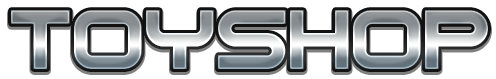
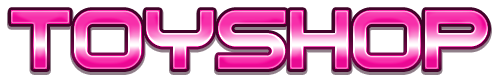
new primary color and brand color

diff --git a/app/routes/store/ProductCard.tsx b/app/routes/store/ProductCard.tsx
@@ -93,7 +93,7 @@ export default function ProductCard({ product }: Props) {
     const outOfStock = product.quantity <= 0;
 
     return (
-        <div className="mt-5 border-2 border-color-2">
+        <div className="mt-5 rounded-lg border-2 border-bgColor2 bg-gradient-to-br from-bgColor1 to-bgColor2 dark:bg-gradient-to-tl">
             <p>Title: {product.title}</p>
             <p>Rating: {product.average_rating}</p>
             {!user ? null : (
@@ -107,13 +107,68 @@ export default function ProductCard({ product }: Props) {
                             ? "In cart"
                             : outOfStock
                               ? "Out of stock"
-                              : "Add to cart"}
+                              : addToCartTextRender}
                     </button>
-                    <button className="btn" onClick={addToWishlist}>
-                        {isInWishlist ? "Wishlist-" : "Wishlist+"}
+                    <button
+                        className="text-primaryColor hover:text-primaryColorMuted"
+                        onClick={addToWishlist}
+                    >
+                        {isInWishlist ? filledHeartIcon : emptyHeartIcon}
                     </button>
                 </div>
             )}
         </div>
     );
 }
+
+const addToCartTextRender = (
+    <div className="flex flex-row">
+        <svg
+            xmlns="http://www.w3.org/2000/svg"
+            fill="none"
+            viewBox="0 0 24 24"
+            strokeWidth={1.5}
+            stroke="currentColor"
+            className="size-6"
+        >
+            <path
+                strokeLinecap="round"
+                strokeLinejoin="round"
+                d="M2.25 3h1.386c.51 0 .955.343 1.087.835l.383 1.437M7.5 14.25a3 3 0 0 0-3 3h15.75m-12.75-3h11.218c1.121-2.3 2.1-4.684 2.924-7.138a60.114 60.114 0 0 0-16.536-1.84M7.5 14.25 5.106 5.272M6 20.25a.75.75 0 1 1-1.5 0 .75.75 0 0 1 1.5 0Zm12.75 0a.75.75 0 1 1-1.5 0 .75.75 0 0 1 1.5 0Z"
+            />
+        </svg>
+        <span className="ms-1">Add to cart</span>
+    </div>
+);
+
+const emptyHeartIcon = (
+    <>
+        <svg
+            xmlns="http://www.w3.org/2000/svg"
+            fill="none"
+            viewBox="0 0 24 24"
+            strokeWidth={1.5}
+            stroke="currentColor"
+            className="size-10"
+        >
+            <path
+                strokeLinecap="round"
+                strokeLinejoin="round"
+                d="M21 8.25c0-2.485-2.099-4.5-4.688-4.5-1.935 0-3.597 1.126-4.312 2.733-.715-1.607-2.377-2.733-4.313-2.733C5.1 3.75 3 5.765 3 8.25c0 7.22 9 12 9 12s9-4.78 9-12Z"
+            />
+        </svg>
+    </>
+);
+
+const filledHeartIcon = (
+    <>
+        <svg
+            xmlns="http://www.w3.org/2000/svg"
+            viewBox="0 0 24 24"
+            fill="currentColor"
+            className="size-10"
+        >
+            <path d="m11.645 20.91-.007-.003-.022-.012a15.247 15.247 0 0 1-.383-.218 25.18 25.18 0 0 1-4.244-3.17C4.688 15.36 2.25 12.174 2.25 8.25 2.25 5.322 4.714 3 7.688 3A5.5 5.5 0 0 1 12 5.052 5.5 5.5 0 0 1 16.313 3c2.973 0 5.437 2.322 5.437 5.25 0 3.925-2.438 7.111-4.739 9.256a25.175 25.175 0 0 1-4.244 3.17 15.247 15.247 0 0 1-.383.219l-.022.012-.007.004-.003.001a.752.752 0 0 1-.704 0l-.003-.001Z" />
+        </svg>
+    </>
+);

diff --git a/app/routes/store/SortOptions.tsx b/app/routes/store/SortOptions.tsx
@@ -20,19 +20,20 @@ export default function SortOptions({
             // selected sort type render
             return (
                 <button
-                    className="btn"
+                    className="text-primaryTextColor flex items-center bg-primaryColor px-4 py-1 hover:bg-primaryColorMuted"
                     onClick={() => {
                         setSortDescending(!sortDescending);
                         setFetchTrigger({ fetchMode: "NEW" });
                     }}
                 >
-                    {displayText + (sortDescending ? "(D)" : "(A)")}
+                    <div>{sortDescending ? downArrow : upArrow}</div>
+                    <span>{displayText}</span>
                 </button>
             );
         } else {
             return (
                 <button
-                    className="btn"
+                    className="hover:bg-bgColor3 bg-bgColor2 px-4 py-1"
                     onClick={() => {
                         setChosenSort(type);
                         setFetchTrigger({ fetchMode: "NEW" });
@@ -45,10 +46,46 @@ export default function SortOptions({
     }
 
     return (
-        <div className="flex">
-            {sortOptionButton("Title", "TITLE")}
-            {sortOptionButton("Price", "PRICE")}
-            {sortOptionButton("Rating", "RATING")}
+        <div className="flex justify-end pt-10 lg:pt-0">
+            <div className="text-md flex flex-wrap overflow-hidden rounded-md font-medium">
+                {sortOptionButton("Title", "TITLE")}
+                {sortOptionButton("Price", "PRICE")}
+                {sortOptionButton("Rating", "RATING")}
+            </div>
         </div>
     );
 }
+
+const downArrow = (
+    <>
+        <svg
+            xmlns="http://www.w3.org/2000/svg"
+            viewBox="0 0 20 20"
+            fill="currentColor"
+            className="size-5"
+        >
+            <path
+                fillRule="evenodd"
+                d="M10 3a.75.75 0 0 1 .75.75v10.638l3.96-4.158a.75.75 0 1 1 1.08 1.04l-5.25 5.5a.75.75 0 0 1-1.08 0l-5.25-5.5a.75.75 0 1 1 1.08-1.04l3.96 4.158V3.75A.75.75 0 0 1 10 3Z"
+                clipRule="evenodd"
+            />
+        </svg>
+    </>
+);
+
+const upArrow = (
+    <>
+        <svg
+            xmlns="http://www.w3.org/2000/svg"
+            viewBox="0 0 20 20"
+            fill="currentColor"
+            className="size-5"
+        >
+            <path
+                fillRule="evenodd"
+                d="M10 17a.75.75 0 0 1-.75-.75V5.612L5.29 9.77a.75.75 0 0 1-1.08-1.04l5.25-5.5a.75.75 0 0 1 1.08 0l5.25 5.5a.75.75 0 1 1-1.08 1.04l-3.96-4.158V16.25A.75.75 0 0 1 10 17Z"
+                clipRule="evenodd"
+            />
+        </svg>
+    </>
+);

diff --git a/app/routes/store/TagsFilter.tsx b/app/routes/store/TagsFilter.tsx
@@ -47,17 +47,36 @@ export default function TagsFilter({
 
     return (
         <>
-            <div className="flex flex-wrap">
+            <div className="flex flex-wrap items-center gap-x-1 gap-y-2">
                 <button
-                    className="btn"
+                    className="btn mr-2 flex flex-row px-2 py-1 text-lg"
                     onClick={() => setShowTagsModal(!showTagsModal)}
                 >
-                    Add tag
+                    <svg
+                        xmlns="http://www.w3.org/2000/svg"
+                        fill="none"
+                        viewBox="0 0 24 24"
+                        strokeWidth={1.5}
+                        stroke="currentColor"
+                        className="size-7"
+                    >
+                        <path
+                            strokeLinecap="round"
+                            strokeLinejoin="round"
+                            d="M9.568 3H5.25A2.25 2.25 0 0 0 3 5.25v4.318c0 .597.237 1.17.659 1.591l9.581 9.581c.699.699 1.78.872 2.607.33a18.095 18.095 0 0 0 5.223-5.223c.542-.827.369-1.908-.33-2.607L11.16 3.66A2.25 2.25 0 0 0 9.568 3Z"
+                        />
+                        <path
+                            strokeLinecap="round"
+                            strokeLinejoin="round"
+                            d="M6 6h.008v.008H6V6Z"
+                        />
+                    </svg>
+                    <span className="ms-1">Tag</span>
                 </button>
 
                 {chosenTags.map((chosenTag) => (
                     <button
-                        className="btn text-xs hover:line-through"
+                        className="rounded-full border-2 border-bgColor2 px-3 py-1 text-sm hover:bg-bgColor2"
                         key={chosenTag.id}
                         onClick={() => {
                             removeTag(chosenTag);
@@ -71,7 +90,7 @@ export default function TagsFilter({
 
             {showTagsModal ? (
                 <div className="fixed inset-0 z-50 flex items-center justify-center bg-black bg-opacity-75">
-                    <div className="h-3/4 w-11/12 max-w-[600px] overflow-y-scroll bg-color-1">
+                    <div className="h-3/4 w-11/12 max-w-[600px] overflow-y-scroll bg-bgColor1">
                         <div className="flex flex-row">
                             <h1>Tags</h1>
                             <button

diff --git a/app/routes/store/SearchBar.tsx b/app/routes/store/SearchBar.tsx
@@ -23,7 +23,7 @@ export default function SearchBar({
         <div>
             <div className="flex flex-row align-top">
                 <input
-                    className="bg-bgColor2 w-3/4 max-w-96 p-2"
+                    className="w-3/4 max-w-96 rounded-l-lg bg-bgColor2 px-4 py-2"
                     type="text"
                     placeholder="Search"
                     onKeyDown={(e) => {
@@ -37,7 +37,7 @@ export default function SearchBar({
                     onChange={(e) => setSearchQuery(e.currentTarget.value)}
                 />
                 <button
-                    className="hover:bg-primaryColorMuted bg-primaryColor px-2 text-white"
+                    className="rounded-r-lg bg-primaryColor px-2 text-white hover:bg-primaryColorMuted"
                     type="button"
                     onClick={initiateFetching}
                 >
@@ -67,8 +67,9 @@ export default function SearchBar({
                             setShowOnSalesOnly(!showOnSalesOnly);
                             setFetchTrigger({ fetchMode: "NEW" });
                         }}
-                        className="h-5 w-5 accent-textColor1"
+                        className="peer sr-only"
                     />
+                    <div className="peer relative h-6 w-11 rounded-lg bg-bgColor2 after:absolute after:start-[2px] after:top-[2px] after:h-5 after:w-5 after:rounded-lg after:bg-white after:transition-all after:content-[''] peer-checked:bg-primaryColor peer-checked:after:translate-x-full rtl:peer-checked:after:-translate-x-full"></div>
                     <span className="text-md ms-2 font-medium text-textColor1">
                         On sale
                     </span>

diff --git a/app/tailwind.css b/app/tailwind.css
@@ -5,29 +5,20 @@
 @layer base {
     /* update tailwind.config.ts when add/remove colors */
     :root {
-        --primaryColor: #0ea5e9;
-        --primaryColorMuted: #0e91ce;
+        --primaryColor: #f734ac;
+        --primaryColorMuted: #cc1d89;
+        --primaryTextColor: #f6f6f6;
     }
     html {
-        --color-1: #fff; /*background*/
-        --color-2: #000; /*primary color*/
-        --color-3: #562a2a; /*button*/
-        --color-4: #170d53; /* red error */
-        --color-5: #0d5641; /* text */
-
-        --bgColor1: #e9e9e9;
-        --bgColor2: #c8c8c8;
+        --bgColor1: #fdfdfd;
+        --bgColor2: #eaeaea;
+        --bgColor3: #dddddd;
         --textColor1: #1b1b1b;
     }
     html.dark {
-        --color-1: #101010;
-        --color-2: #7fffe1;
-        --color-3: #353535;
-        --color-4: #d75252;
-        --color-5: #e0e0e0;
-
-        --bgColor1: #101010;
+        --bgColor1: #181818;
         --bgColor2: #363636;
+        --bgColor3: #2b2b2b;
         --textColor1: #e0e0e0;
     }
 
@@ -44,7 +35,7 @@
 
 /* CUSTOM CLASSES */
 .btn {
-    @apply rounded-lg bg-color-3 px-4 py-2 font-bold text-color-2 transition-colors duration-300 enabled:hover:bg-color-2 enabled:hover:text-color-3;
+    @apply enabled:text-primaryTextColor rounded-md enabled:bg-primaryColor enabled:font-bold enabled:hover:bg-primaryColorMuted disabled:font-medium;
 }
 
 .auth-form {
@@ -54,7 +45,7 @@
     @apply mb-2 w-56;
 }
 .auth-form .text-input {
-    @apply bg-color-3 p-2;
+    @apply bg-bgColor2 p-2;
 }
 
 /* SCROLLBAR */

diff --git a/app/components/Navbar.tsx b/app/components/Navbar.tsx
@@ -17,12 +17,12 @@ export default function Navbar({ cartCount, setSidePanelIsShown }: Props) {
         <div
             className={
                 (navIsShown ? "top-0" : "-top-32") +
-                " fixed z-40 w-screen px-2 backdrop-blur-sm transition-[top] duration-500 ease-in-out sm:px-5"
+                " fixed z-40 w-screen border-b-2 border-bgColor2 px-2 backdrop-blur-md transition-[top] duration-500 ease-in-out sm:px-5"
             }
         >
             <div className="mx-auto flex h-16 max-w-screen-lg flex-row justify-between">
                 <Link to="/" className="flex py-2">
-                    <img src={logoImage} className="h-full" />
+                    <img src={logoImage} className="h-full w-auto" />
                     <img
                         src={brandTextImage}
                         className="hidden h-full sm:block"
@@ -70,7 +70,7 @@ export default function Navbar({ cartCount, setSidePanelIsShown }: Props) {
                                 />
                             </svg>
                             {cartCount === 0 ? null : (
-                                <span className="absolute right-0 top-3 rounded-3xl bg-primaryColor px-1 text-sm font-bold text-gray-50">
+                                <span className="text-primaryTextColor absolute right-0 top-3 rounded-3xl bg-primaryColor px-1 text-sm font-bold">
                                     {cartCount}
                                 </span>
                             )}

diff --git a/tailwind.config.ts b/tailwind.config.ts
@@ -7,17 +7,13 @@ export default {
         extend: {
             colors: {
                 // color vars from app/tailwind.css
-                "color-1": "var(--color-1)",
-                "color-2": "var(--color-2)",
-                "color-3": "var(--color-3)",
-                "color-4": "var(--color-4)",
-                "color-5": "var(--color-5)",
-
                 bgColor1: "var(--bgColor1)",
                 bgColor2: "var(--bgColor2)",
+                bgColor3: "var(--bgColor3)",
                 textColor1: "var(--textColor1)",
                 primaryColor: "var(--primaryColor)",
                 primaryColorMuted: "var(--primaryColorMuted)",
+                primaryTextColor: "var(--primaryTextColor)",
             },
         },
     },

diff --git a/app/components/SidePanel.tsx b/app/components/SidePanel.tsx
@@ -31,7 +31,7 @@ export default function SidePanel({
         <div
             className={
                 (sidePanelIsShown ? "right-0" : "-right-96") +
-                ` fixed z-50 flex h-screen w-96 max-w-full flex-col items-center bg-gray-800 transition-[right] duration-500 ease-in-out`
+                ` fixed z-50 flex h-screen w-96 max-w-full flex-col items-center border-l-2 border-bgColor2 backdrop-blur-md transition-[right] duration-500 ease-in-out`
             }
         >
             <button className="btn" onClick={() => setSidePanelIsShown(false)}>

diff --git a/app/routes/store/index.tsx b/app/routes/store/index.tsx
@@ -126,7 +126,7 @@ export default function StorePage() {
                     />
                 </div>
 
-                <div className="flex flex-grow flex-col">
+                <div className="flex flex-grow flex-col px-4">
                     <SortOptions
                         setFetchTrigger={setFetchTrigger}
                         chosenSort={chosenSort}
